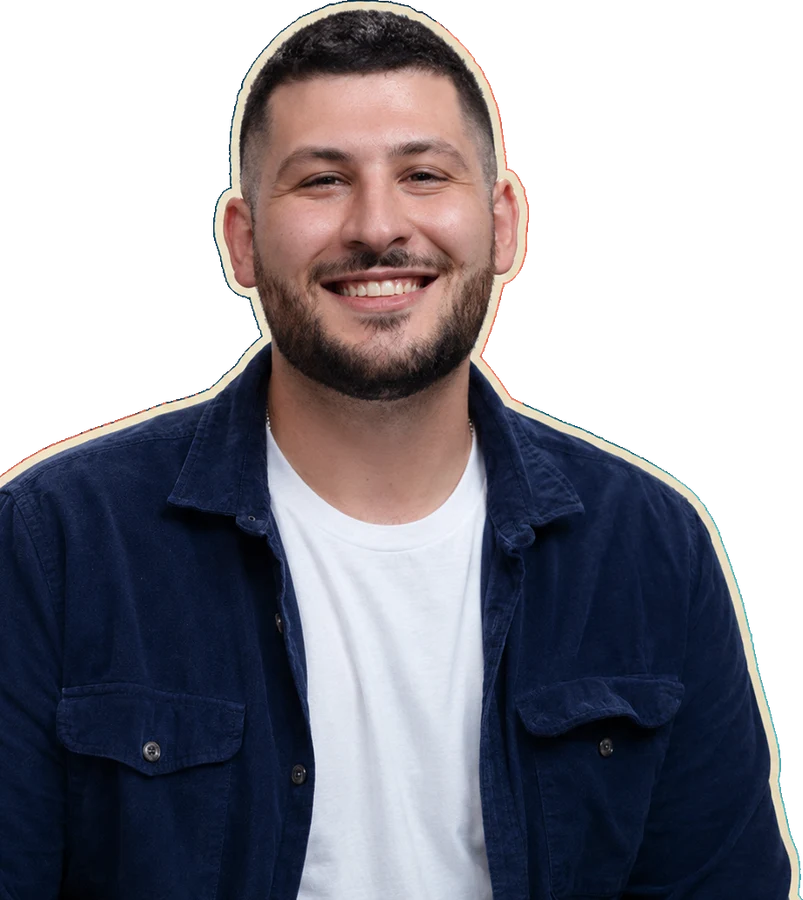
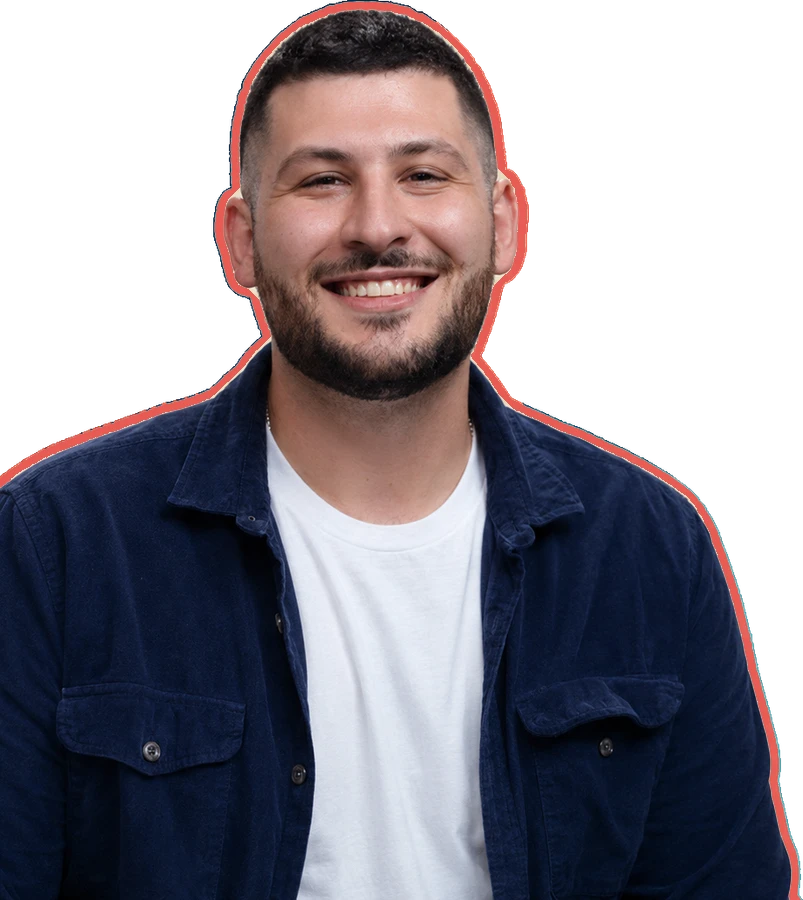
Match the hero to the supplied design
The design was mocked up with a stock face; this puts the founder's own
photograph into it and brings across the details that were still missing.

- The cream sticker outline around him is recoloured to the design's
  coral, sampled from the mockup at #E85C54. Only pixels in the band
  hugging the alpha edge that are actually cream are touched, so his hair
  and jacket keep their own colour, and the anti-aliased falloff is
  preserved rather than hard-keyed.
- The header gains the legal-name wordmark beside a smaller tag.
- Both Donate buttons carry the heart from the design.
- Faint topographic contour lines sit behind the hero, drawn at 5.5%
  foreground so nothing above them loses contrast.

The header link's accessible name now contains its visible wordmark. It
read "Lipson Foundation home" while the visible text said "Lipson
Foundation Inc.", which fails WCAG 2.5.3 Label in Name.

Note for the record: the coral outline is red, which the brand rules in
CLAUDE.md exclude from the palette. This is the second place the supplied
artwork and those rules disagree, after the In Your Corner mark. The rules
or the artwork should be reconciled.

Still not carried across: the design labels the commitments row "UR
COMMITMENT", which uses the short mark as a word in body copy. The copy
kit prohibits that outright, so the site keeps "Our commitment".

diff --git a/app/page.tsx b/app/page.tsx
@@ -2,7 +2,7 @@ import type { Metadata } from "next"
 import { pageMetadata } from "@/lib/seo"
 import Image from "next/image"
 import Link from "next/link"
-import { ArrowRightIcon } from "@phosphor-icons/react/ssr"
+import { ArrowRightIcon, HeartIcon } from "@phosphor-icons/react/ssr"
 import { Container } from "@/components/container"
 import { Button } from "@/components/ui/button"
 import {
@@ -15,6 +15,7 @@ import { asset } from "@/lib/assets"
 import { keepItFree, promises, site } from "@/lib/site"
 import { WorkPillars } from "@/components/work-pillars"
 import { Commitments } from "@/components/commitments"
+import { HeroTexture } from "@/components/hero-texture"
 
 export const metadata: Metadata = pageMetadata({
   title: `${site.name} — ${site.kicker}`,
@@ -66,6 +67,7 @@ export default function HomePage() {
             The copy's left padding steps down as the centred container's own
             margins grow, keeping the text clear of him at every width. */}
         <div className="relative">
+          <HeroTexture />
           <Image
             src={asset("/brand/founder.webp")}
             alt="Zachary Lipson, Founder and President"
@@ -97,7 +99,7 @@ export default function HomePage() {
                 render={<Link href="/donate" />}
               >
                 Donate — keep it free
-                <ArrowRightIcon data-icon="inline-end" />
+                <HeartIcon data-icon="inline-end" />
               </Button>
               <Button
                 size="lg"

diff --git a/components/site-header.tsx b/components/site-header.tsx
@@ -3,6 +3,7 @@ import { Container } from "@/components/container"
 import { Logo } from "@/components/logo"
 import { MobileNav } from "@/components/mobile-nav"
 import { ProgramsNav } from "@/components/programs-nav"
+import { HeartIcon } from "@phosphor-icons/react/ssr"
 import { Button } from "@/components/ui/button"
 import { navItems, site } from "@/lib/site"
 
@@ -22,8 +23,15 @@ export function SiteHeader() {
       </div>
       <div className="border-b border-primary-foreground/10">
         <Container className="flex h-[4.75rem] items-center justify-between gap-3">
-          <Link href="/" className="shrink-0" aria-label="Lipson Foundation home">
-            <Logo inverse />
+          <Link
+            href="/"
+            className="flex shrink-0 items-center gap-3"
+            aria-label={`${site.legalName} — home`}
+          >
+            <Logo inverse size="sm" />
+            <span className="hidden font-heading text-lg tracking-tight sm:inline">
+              {site.legalName}
+            </span>
           </Link>
           <nav className="hidden items-center lg:flex" aria-label="Primary">
             {navItems.map((item) => {
@@ -48,6 +56,7 @@ export function SiteHeader() {
               render={<Link href="/donate" />}
             >
               Donate
+              <HeartIcon data-icon="inline-end" />
             </Button>
             <MobileNav />
           </div>

diff --git a/components/hero-texture.tsx b/components/hero-texture.tsx
@@ -1,0 +1,27 @@
+/**
+ * Faint topographic contour lines behind the hero, as in the design.
+ * Decorative only — hidden from assistive technology, and drawn at a low
+ * enough opacity that nothing sitting on top of it loses contrast.
+ */
+export function HeroTexture() {
+  return (
+    <svg
+      aria-hidden
+      focusable="false"
+      className="pointer-events-none absolute inset-0 h-full w-full select-none text-primary-foreground/[0.055]"
+      preserveAspectRatio="xMidYMid slice"
+      viewBox="0 0 1440 620"
+      fill="none"
+    >
+      <g stroke="currentColor" strokeWidth="1.5">
+        <path d="M-60 96C118 40 268 150 366 214c98 64 172 150 122 236-50 86-232 118-372 74" />
+        <path d="M-60 148C130 88 316 196 420 268c104 72 158 168 96 246-62 78-250 92-388 40" />
+        <path d="M-60 200C142 136 364 242 474 322c110 80 144 186 70 258" />
+        <path d="M1500 78c-186 30-320 130-378 226-58 96-16 208 130 258" />
+        <path d="M1500 140c-208 34-360 142-420 246-60 104-6 214 152 262" />
+        <path d="M1500 202c-230 38-400 154-462 266-40 72-28 142 30 190" />
+        <path d="M1500 264c-252 42-440 166-504 286" />
+      </g>
+    </svg>
+  )
+}

diff --git a/components/logo.tsx b/components/logo.tsx
@@ -8,9 +8,9 @@ export function Logo({
 }: {
   className?: string
   inverse?: boolean
-  size?: "default" | "lg"
+  size?: "sm" | "default" | "lg"
 }) {
-  const height = size === "lg" ? 72 : 56
+  const height = size === "lg" ? 72 : size === "sm" ? 44 : 56
   const width = Math.round(height * (360 / 640))
   return (
     <span className={cn("inline-flex items-center", className)}>
@@ -19,7 +19,10 @@ export function Logo({
         alt="Lipson Foundation"
         width={width}
         height={height}
-        className={cn("w-auto", size === "lg" ? "h-[4.5rem]" : "h-14")}
+        className={cn(
+          "w-auto",
+          size === "lg" ? "h-[4.5rem]" : size === "sm" ? "h-11" : "h-14"
+        )}
         unoptimized
         priority
       />
